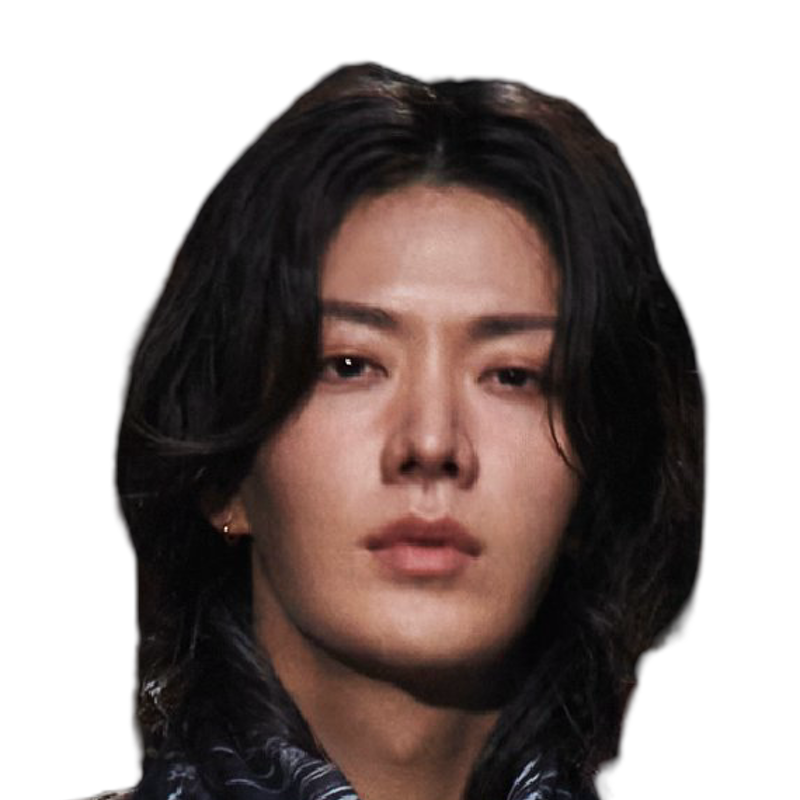
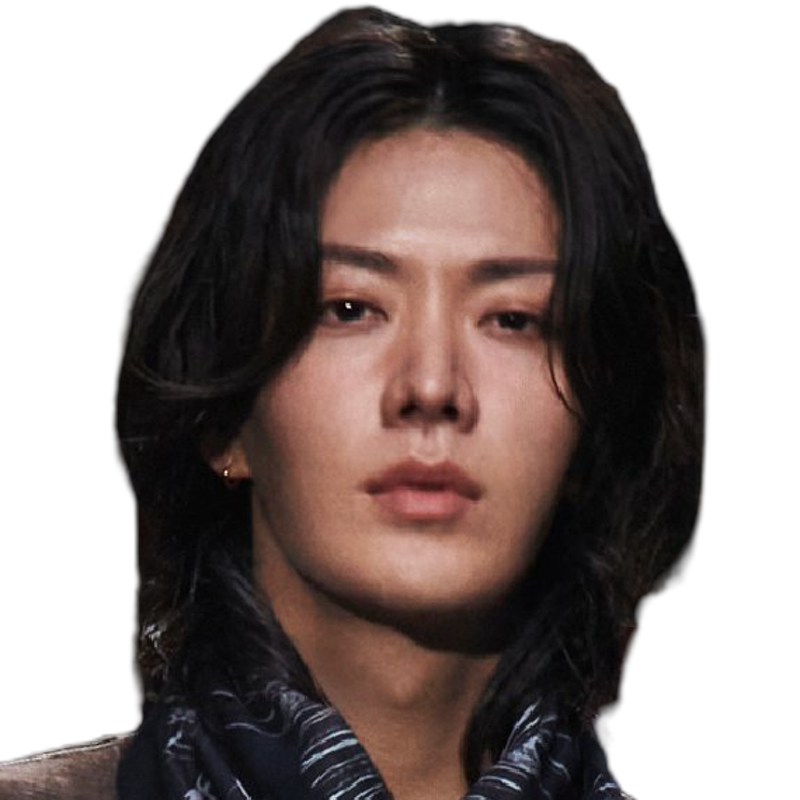
Update Getaway photos

diff --git a/js/ranking.js b/js/ranking.js
@@ -4,7 +4,7 @@
 /* ========================================= */
 
 /* Bump when the avatar images change, to bust the browser/Pages cache. */
-const PHOTO_VER = 33;
+const PHOTO_VER = 34;
 window.PHOTO_VER = PHOTO_VER;
 
 const Ranking = {
